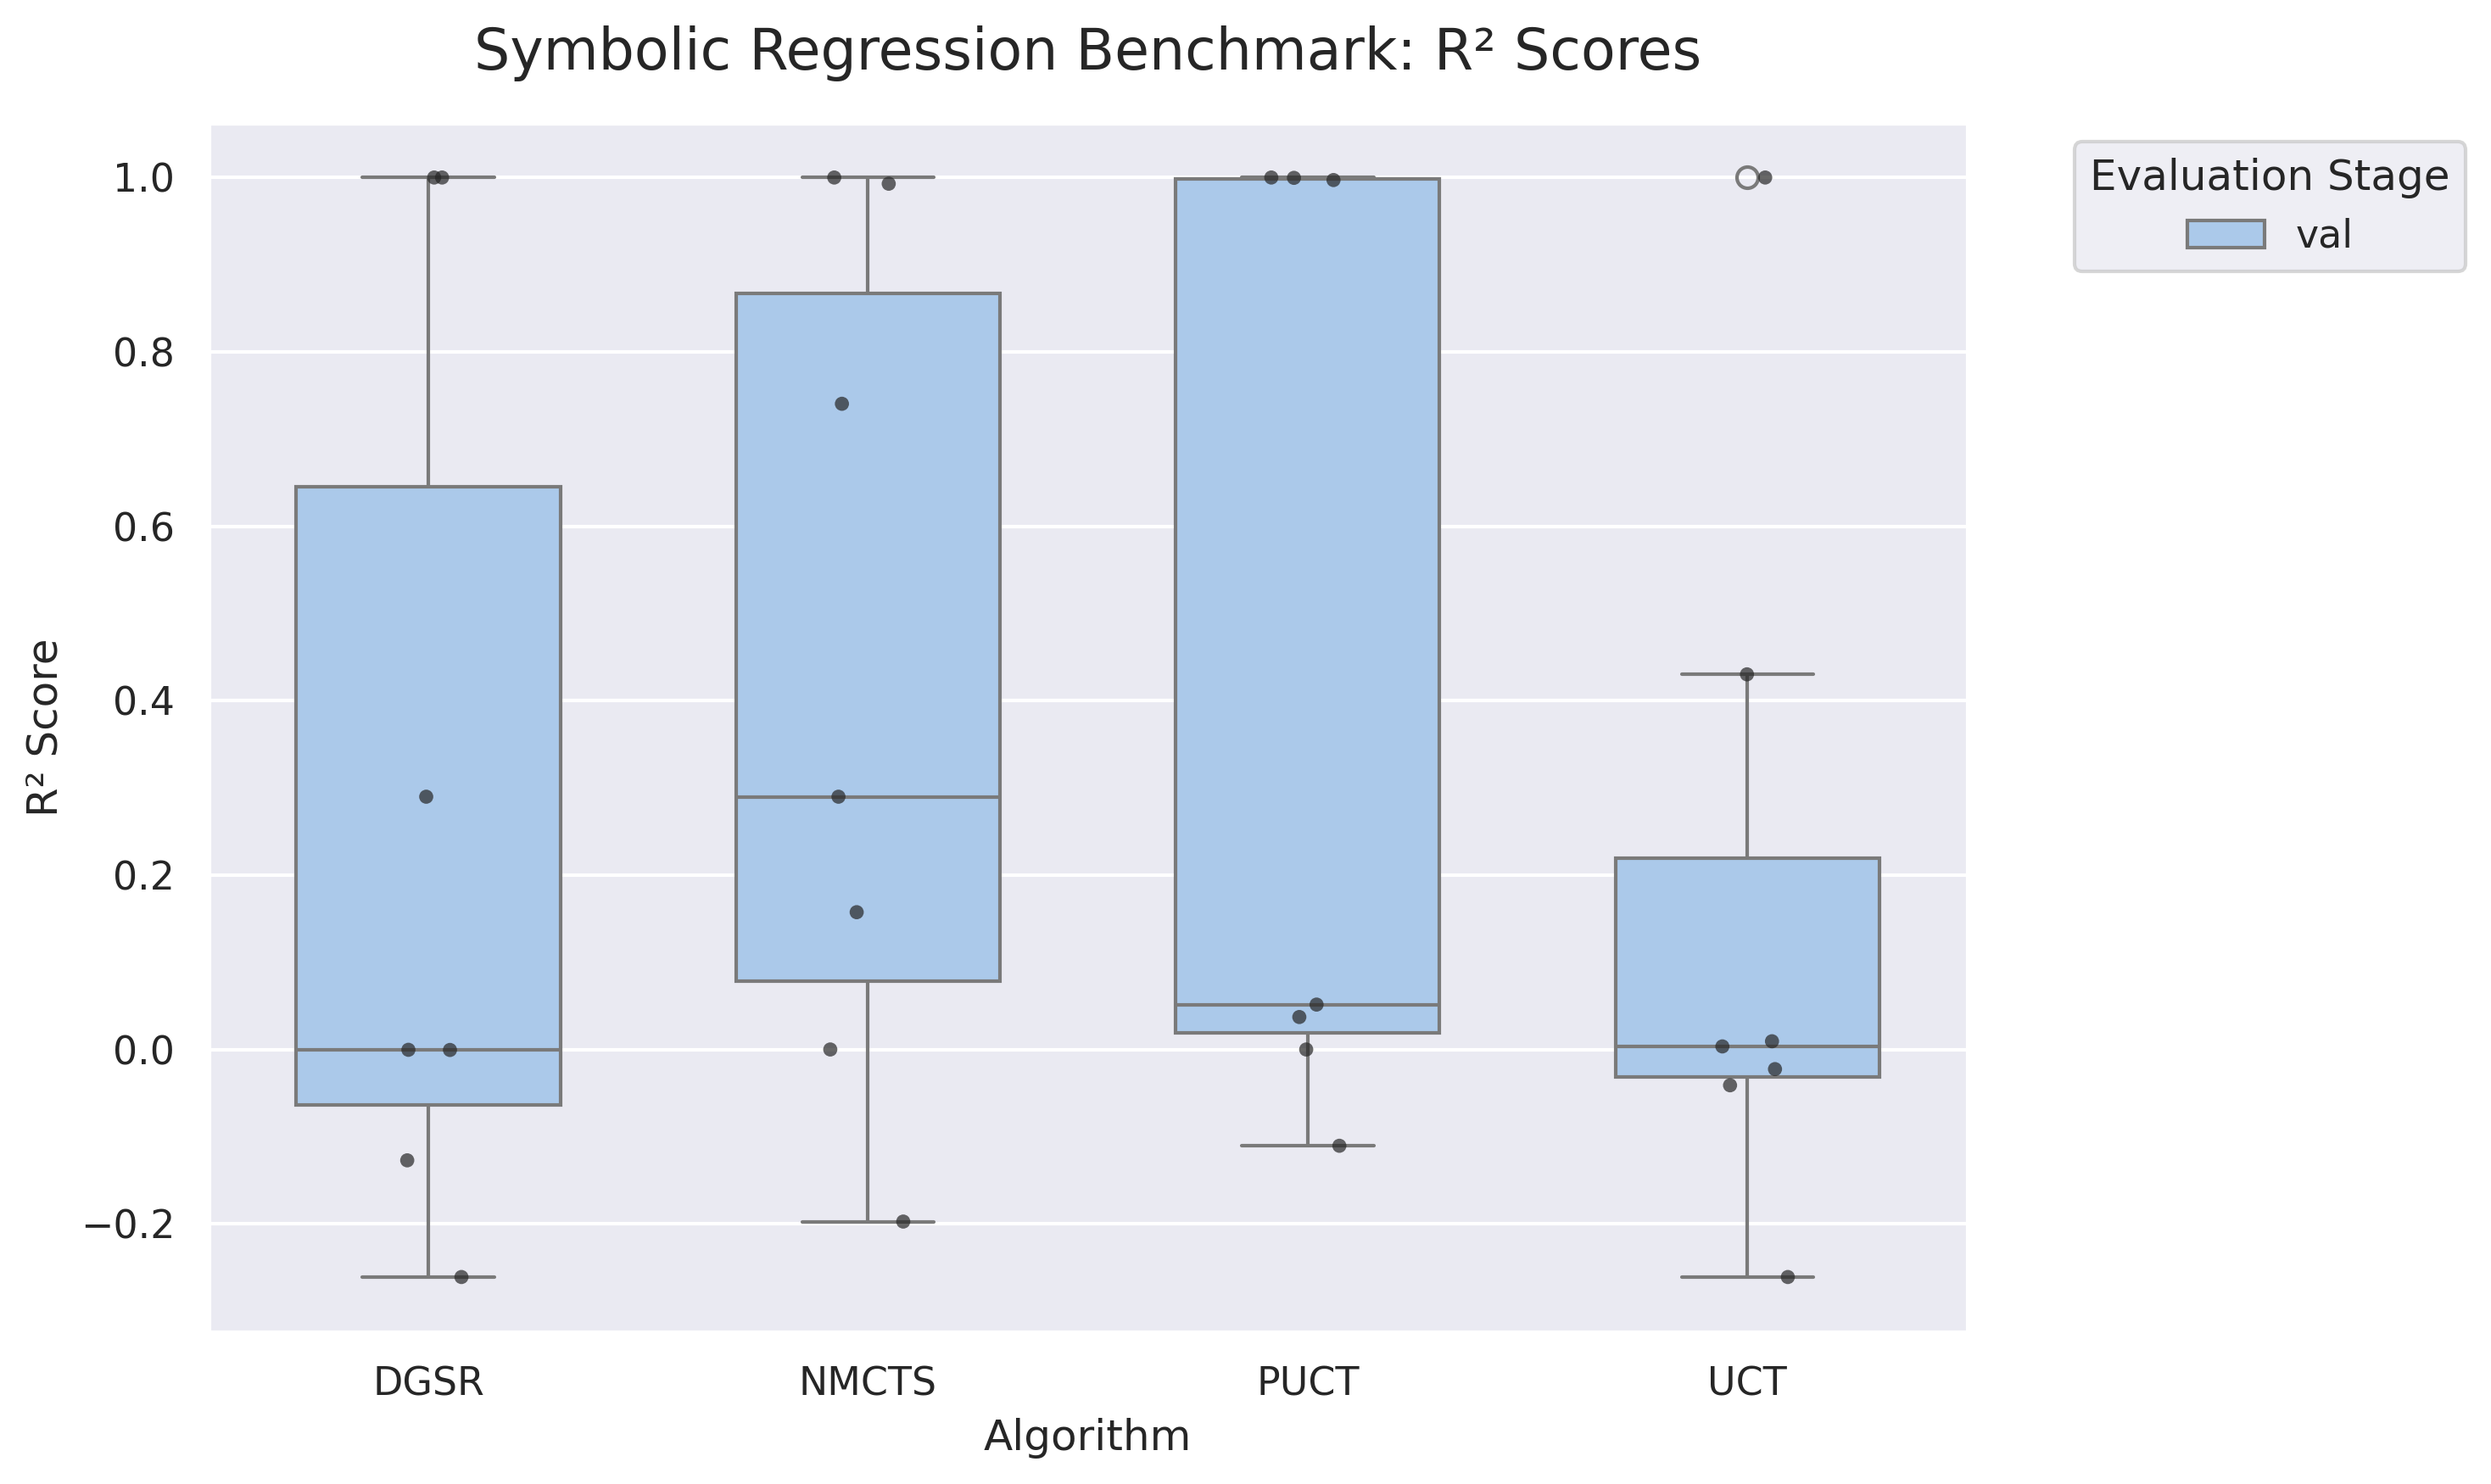
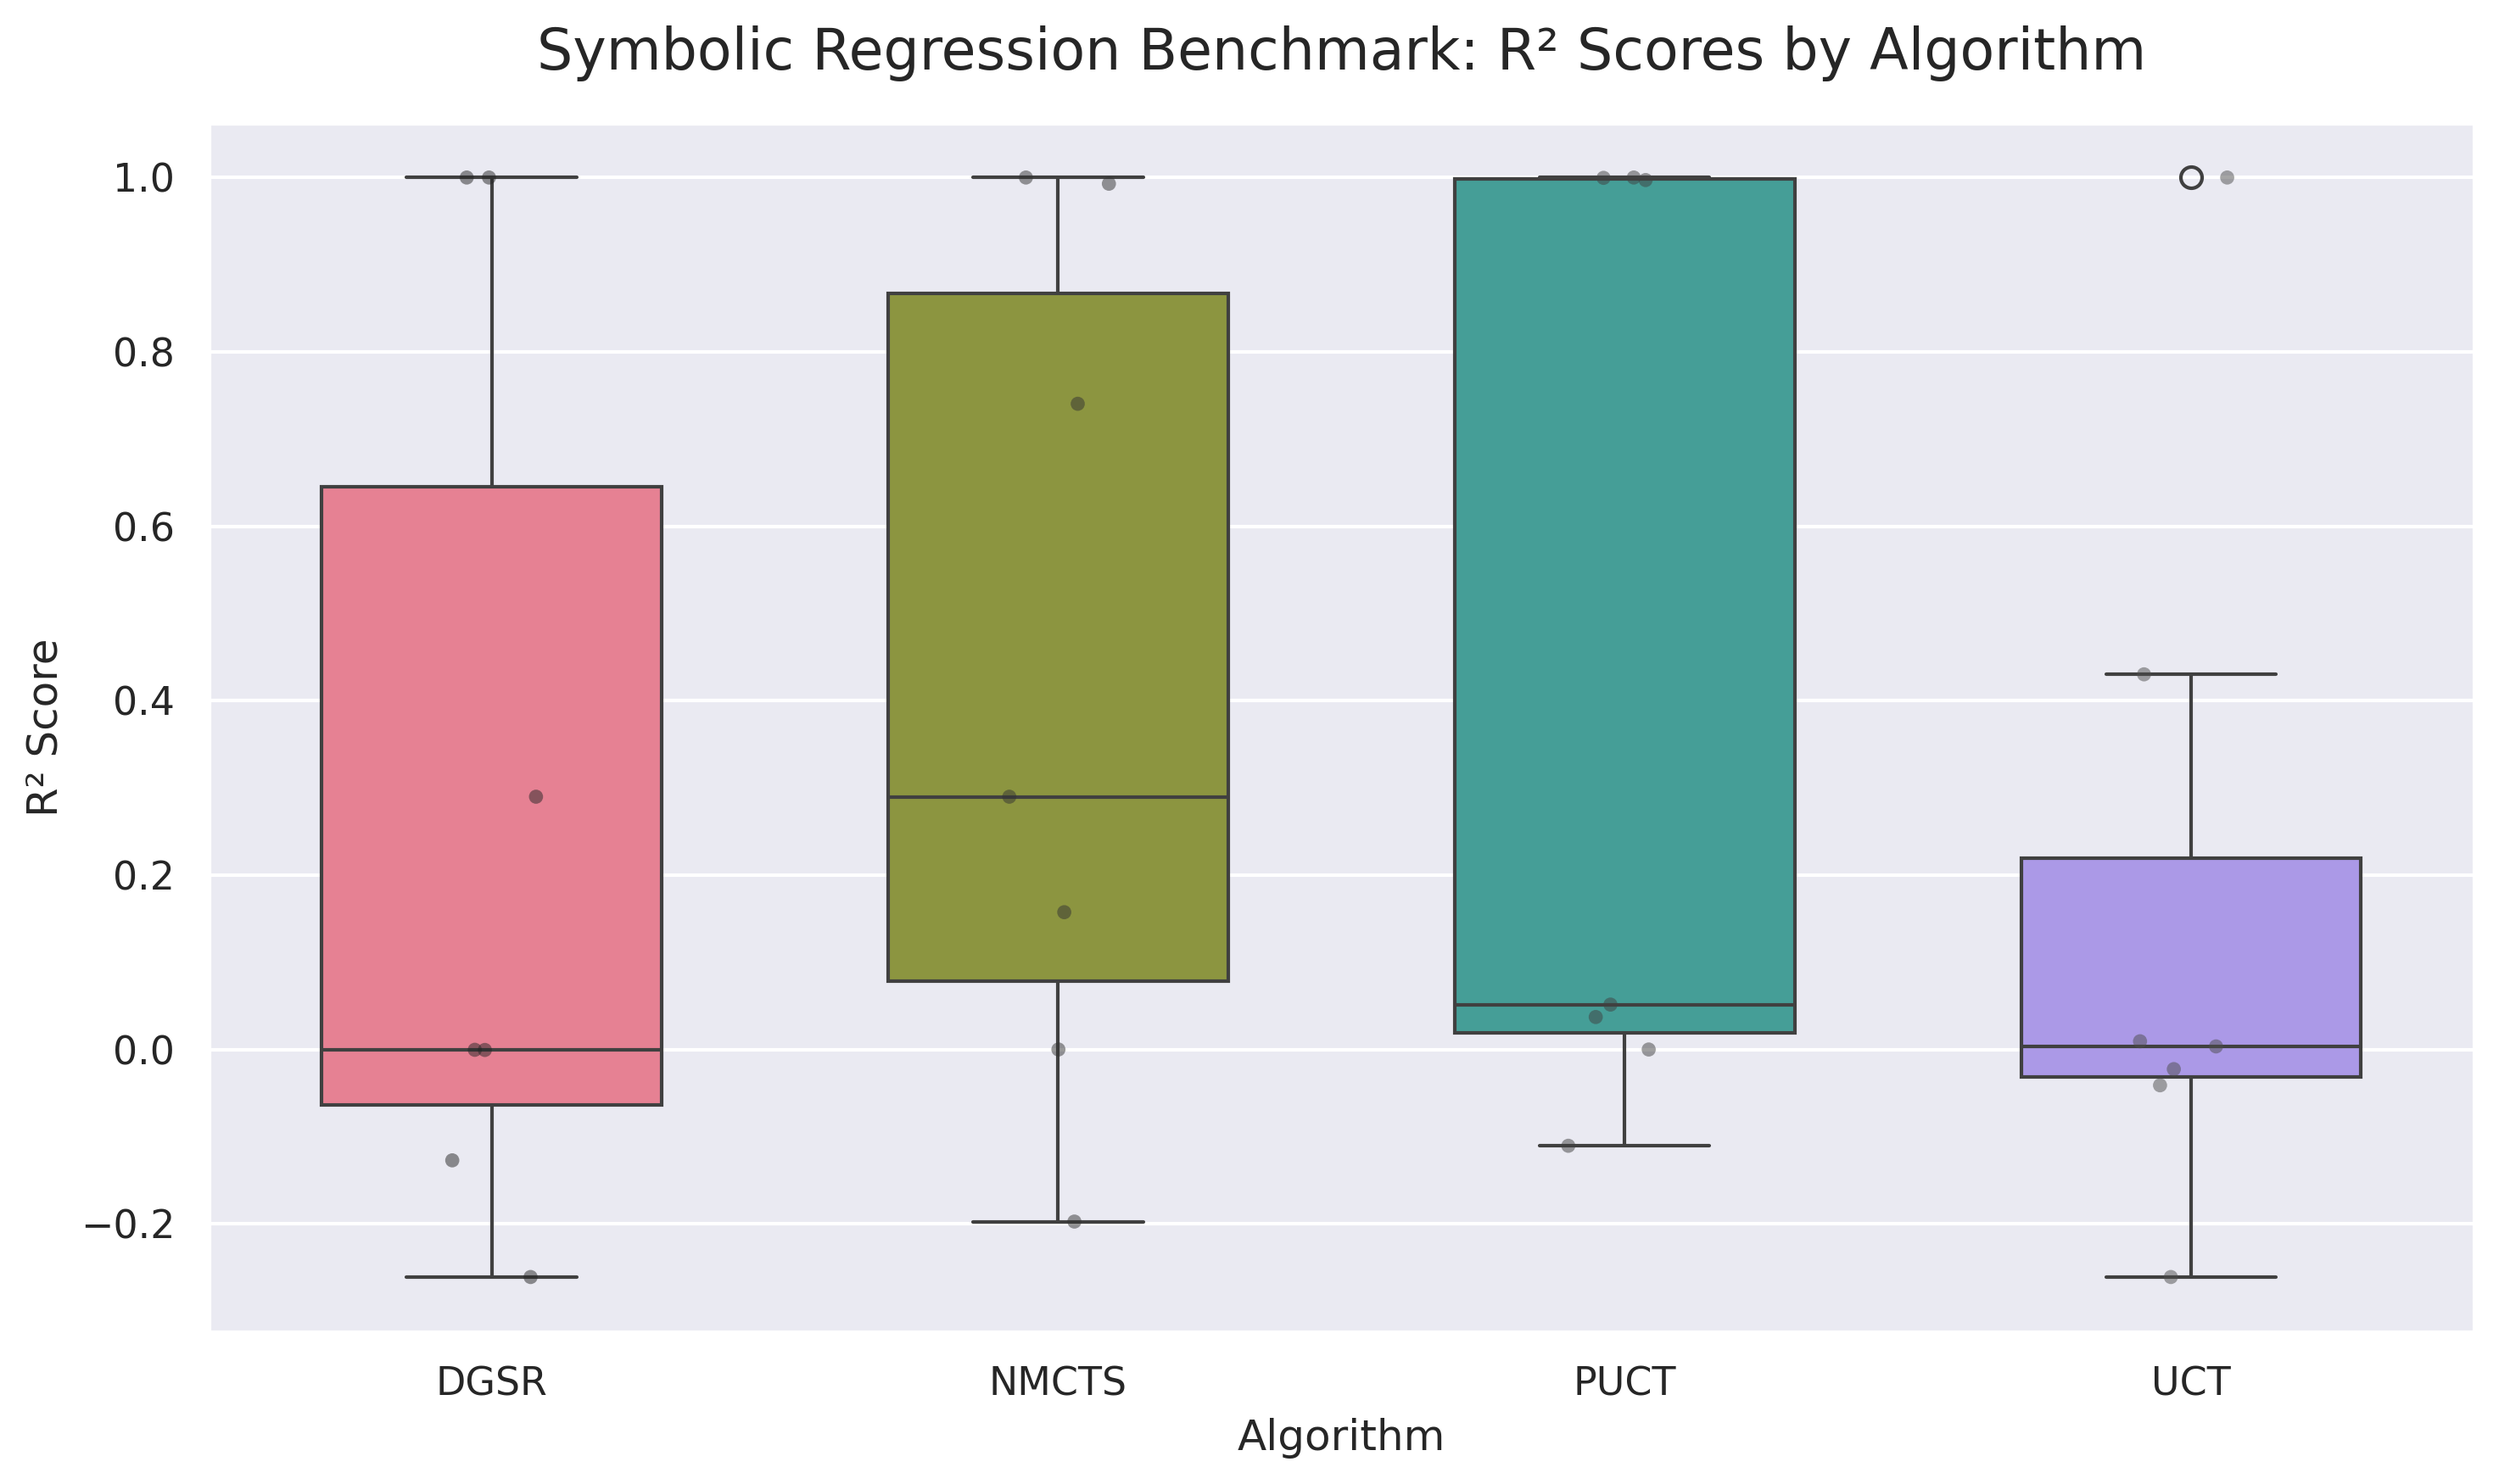
add some visualization

diff --git a/scripts/visualize_benchmark.py b/scripts/visualize_benchmark.py
@@ -58,36 +58,83 @@ def main():
         print("No R2 column ('test_r2' or 'val_r2') found in the dataset.")
         return
     
+    # Add 'method' column for consistency with instructions
+    df['method'] = df['algo_name']
+    
+    # Define a consistent palette for 'method' to ensure consistency across plots
+    unique_methods = sorted(df['method'].unique())
+    method_palette = dict(zip(unique_methods, sns.color_palette("husl", len(unique_methods))))
+    
     os.makedirs("results", exist_ok=True)
     
-    print(f"Compiling {len(df)} entries into a beautiful Matplotlib graph...")
+    print(f"Compiling {len(df)} entries into beautiful Matplotlib graphs...")
     
     # Set the style for seaborn
     sns.set_theme(style="darkgrid", palette="pastel")
     
+    # --- Plot 1: R2 Boxplot (Consistent Coloring) ---
     plt.figure(figsize=(10, 6))
-    
-    # Title and labels
-    plt.title("Symbolic Regression Benchmark: R² Scores", fontsize=16, pad=15)
+    plt.title("Symbolic Regression Benchmark: R² Scores by Algorithm", fontsize=16, pad=15)
     plt.xlabel("Algorithm", fontsize=12)
     plt.ylabel("R² Score", fontsize=12)
     
-    # Box plot
-    ax = sns.boxplot(x="algo_name", y="r2", hue="run_type", data=df, width=0.6)
-    
-    # Strip plot to show individual points (fixed seaborn deprecation warning)
-    sns.stripplot(x="algo_name", y="r2", hue="run_type", data=df, size=4, palette="dark:.3", linewidth=0, dodge=True, alpha=0.7)
-    
-    # Fix the legend (remove duplicate entries from stripplot)
-    handles, labels = ax.get_legend_handles_labels()
-    n_colors = len(df['run_type'].unique())
-    plt.legend(handles[:n_colors], labels[:n_colors], title="Evaluation Stage", bbox_to_anchor=(1.05, 1), loc='upper left')
+    # Using method_palette to match other plots
+    ax = sns.boxplot(x="method", y="r2", hue="method", data=df, palette=method_palette, width=0.6, legend=False)
+    sns.stripplot(x="method", y="r2", hue="method", data=df, size=4, palette="dark:.3", linewidth=0, alpha=0.5, legend=False)
     
     plt.tight_layout()
-    
     out_path = "results/benchmark_r2.png"
     plt.savefig(out_path, dpi=300, bbox_inches='tight')
     plt.close()
+    print(f"✅ R2 Boxplot Saved! -> {out_path}")
+
+    # --- Plot 2: Heatmap (Equation × Method) ---
+    try:
+        pivot = df.pivot_table(index="name", columns="method", values="r2", aggfunc='mean')
+        
+        plt.figure(figsize=(10, 8))
+        sns.heatmap(pivot, annot=True, cmap="viridis", fmt=".3f")
+        plt.title("Heatmap: Mean R² Scores by Equation and Method")
+        plt.xlabel("Method")
+        plt.ylabel("Equation")
+        plt.tight_layout()
+        heatmap_path = "results/heatmap.png"
+        plt.savefig(heatmap_path)
+        plt.close()
+        print(f"✅ Heatmap Saved! -> {heatmap_path}")
+    except Exception as e:
+        print(f"⚠ Could not generate heatmap: {e}")
+
+    # --- Plot 3: Grouped Bar Chart (by Equation) ---
+    plt.figure(figsize=(12, 6))
+    sns.barplot(data=df, x="name", y="r2", hue="method", palette=method_palette)
+    plt.xticks(rotation=45, ha='right')
+    plt.title("R² Score per Equation")
+    plt.xlabel("Equation Name")
+    plt.ylabel("R² Score")
+    plt.legend(title="Method", bbox_to_anchor=(1.05, 1), loc='upper left')
+    plt.tight_layout()
+    barplot_path = "results/barplot_grouped.png"
+    plt.savefig(barplot_path)
+    plt.close()
+    print(f"✅ Grouped Bar Chart Saved! -> {barplot_path}")
+
+    # --- Plot 4: Scatter Plot (R² vs Time) ---
+    if 'elapsed_seconds' in df.columns:
+        plt.figure(figsize=(10, 6))
+        sns.scatterplot(data=df, x="elapsed_seconds", y="r2", hue="method", style="run_type", s=100, palette=method_palette)
+        plt.title("Performance (R²) vs Execution Time")
+        plt.xlabel("Elapsed Seconds")
+        plt.ylabel("R² Score")
+        plt.grid(True, linestyle='--', alpha=0.6)
+        plt.legend(bbox_to_anchor=(1.05, 1), loc='upper left')
+        plt.tight_layout()
+        scatter_path = "results/scatter_time_vs_r2.png"
+        plt.savefig(scatter_path)
+        plt.close()
+        print(f"✅ Scatter Plot Saved! -> {scatter_path}")
+    else:
+        print("⚠ 'elapsed_seconds' not found, skipping scatter plot.")
     
     print(f"✅ Dashboard Image Saved! -> {out_path}")
 
